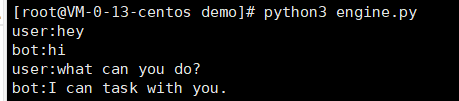
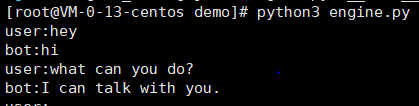
update

diff --git a/README.md b/README.md
@@ -46,9 +46,8 @@ We now finish our demo by implementing two simple skills. Edit the skills.py as 
             self.intent_patterns = ["what can you do?"]
 
         def _perform(self, tracker):
-            self.utter("I can task with you.", tracker.sender_id)
+            self.utter("I can talk with you.", tracker.sender_id)
             return []
 
 Then we can test our demo just by running engine.py.
 ![](resource/img/demo.png)
-
